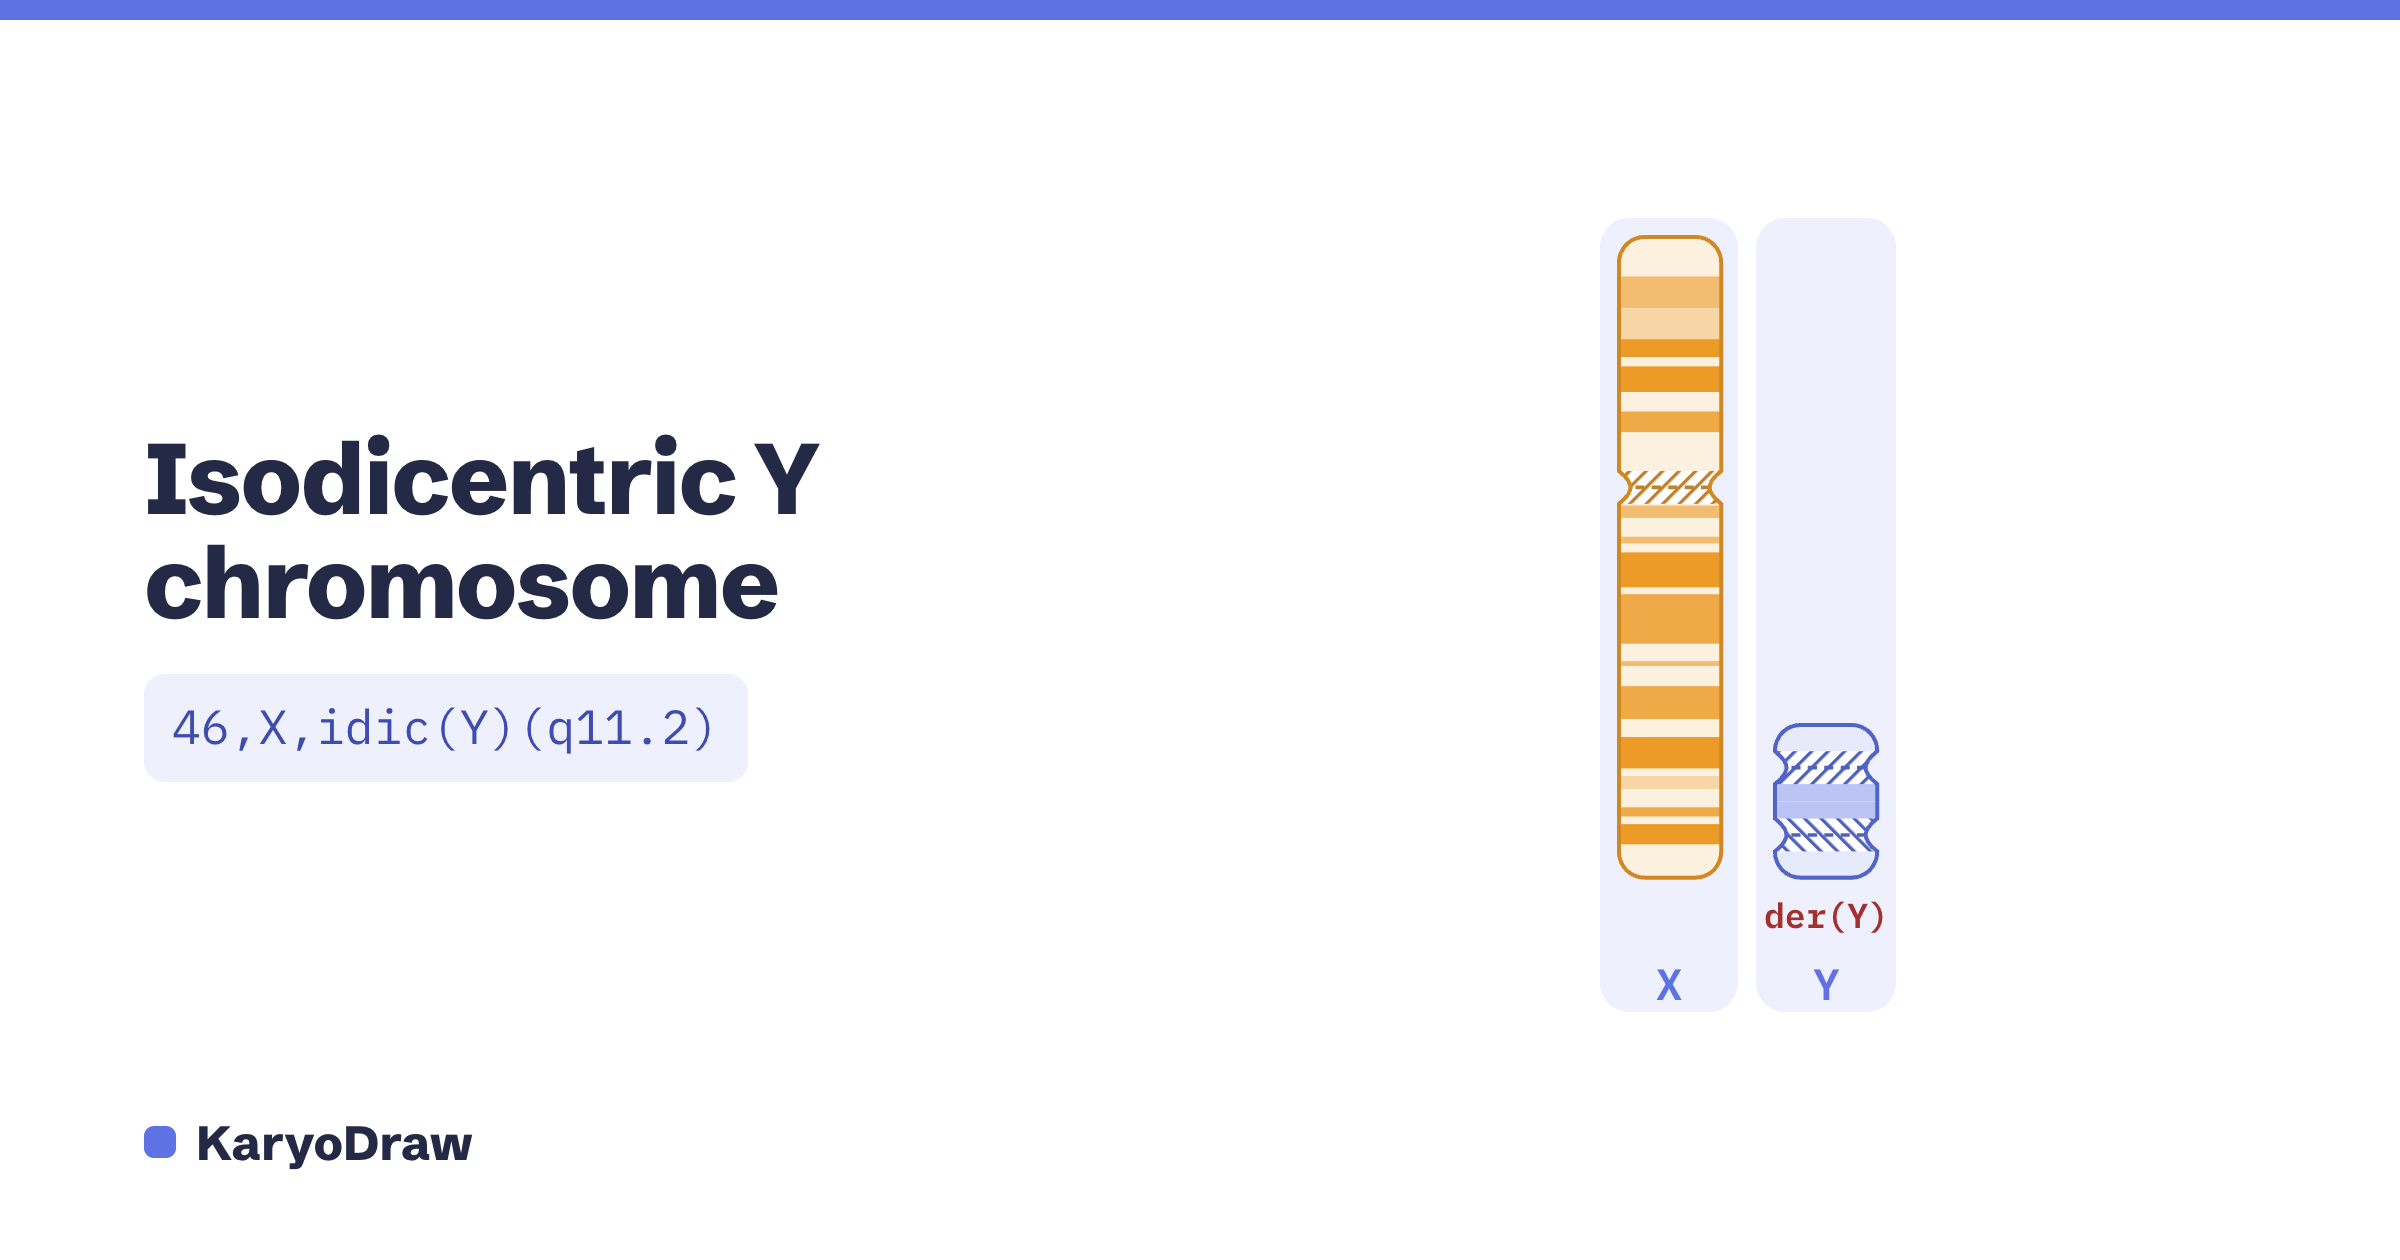
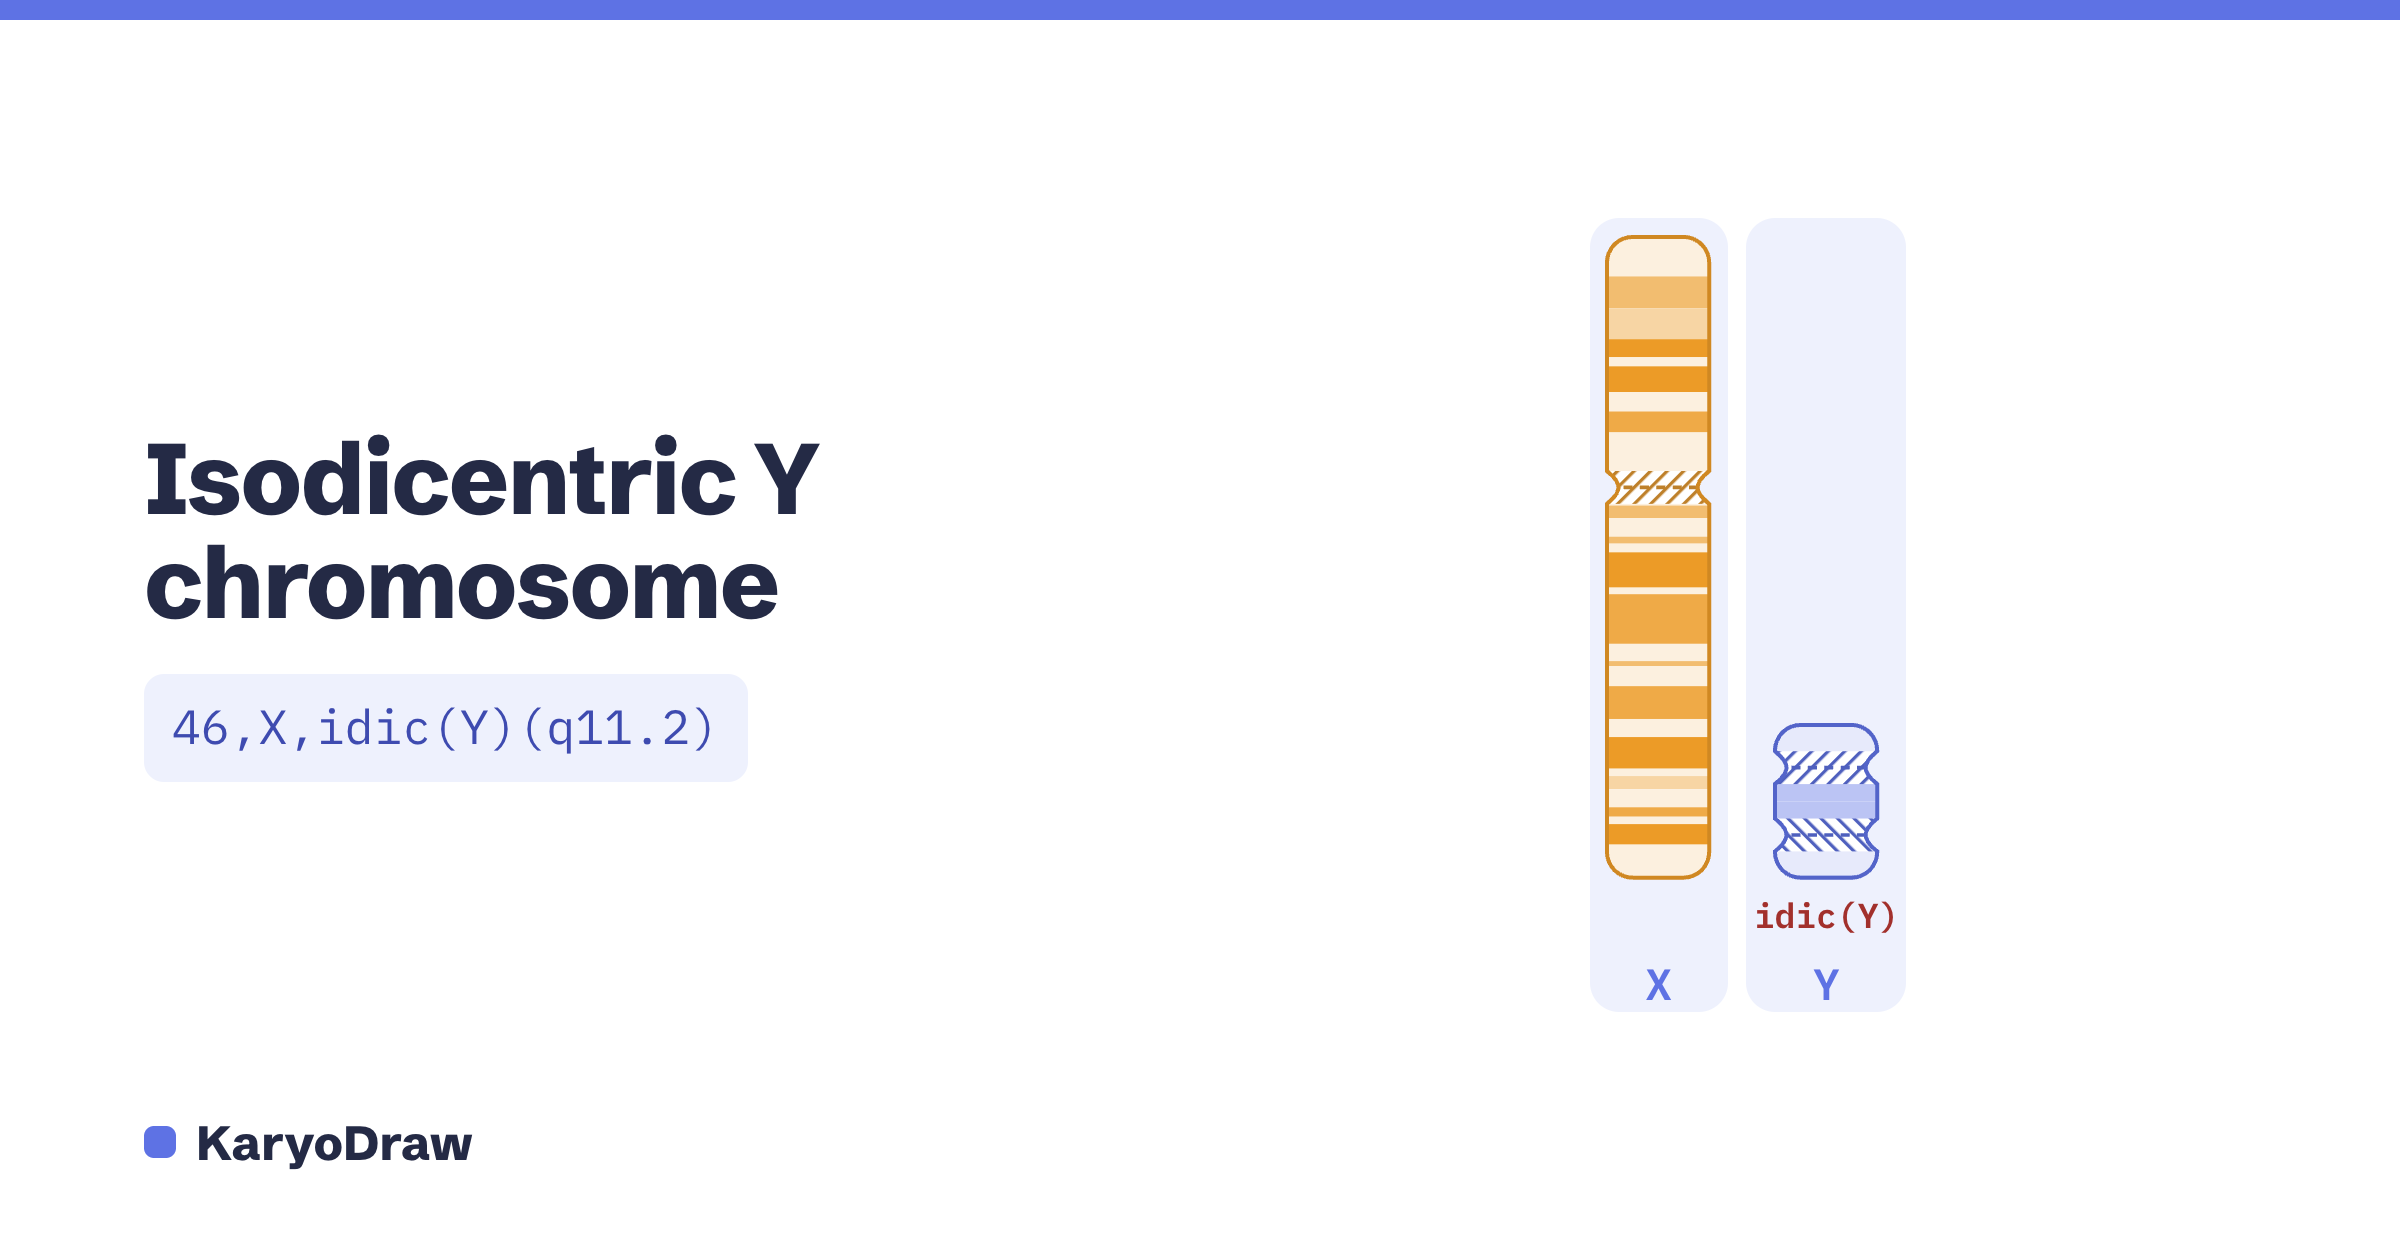
A fused chromosome is captioned with what it is
The caption under a drawn abnormal chromosome came out as der(<lowest
chromosome number>) for every one-body derivative, throwing away both the
symbol and the partner: an isodicentric read der(15), a dic(13;15) read
der(13), a rob(13;14) read der(13).

ISCN's own prose is the model for how to name the object: "the karyotype
contains one normal chromosome 13, one normal chromosome 15, and the
dic(13;15)" (5.5.4 f ii), "two chromosomes 13 plus the idic(13)" (5.5.4 f
viii), "one normal chromosome 21, and the der(13;21)" (5.5.18.3 b i). Two
rules come out of those sentences: the symbol is the one the writer used,
and it names every chromosome the symbol names.

The parser now keeps the operator as written (ab.op), because ab.kind is a
drawing category that merges idic with dic and rob with der, and the caption
has to tell those apart. ISCN 5.5.4 f ix keeps idic and dic apart on
mechanism, so flattening one into the other is not a spelling choice.

Translocations, insertions, and any der() whose join lives in a sub-op are
unchanged and still read der(9) and der(22), because t() makes two
chromosomes rather than one fused body.

Adds parser tests across all four groups. The caption had no test at all
before this, so the whole family could be renamed with the suite green.

Regenerates the landing-page karyograms, cards, and paper figures that bake
the caption into a static image.

Claude-Session: https://claude.ai/code/session_01G5TFp9txgENX2G5ndk3gtf

Changed region(s): [[0.6562, 0.1857, 0.7188, 0.7119], [0.7188, 0.7119, 0.7812, 0.7429], [0.6875, 0.7738, 0.7188, 0.8048]]

diff --git a/test/parser.test.js b/test/parser.test.js
@@ -827,6 +827,65 @@ test('the count fix follows countWrong, like every other count claim', () => {
   assert.equal(ISCN.parse('47,XY,del(5)(zzqewdf2315.2)').countFix, null, 'not while a breakpoint is unreadable');
 });
 
+// ---- the caption under a drawn abnormal chromosome ---------------------------
+// The `.ksub` label, which had no test at all: the whole family could be renamed
+// and the suite stayed green. Dan noticed it on the figure, 2026-08-28 — an
+// idic(15)(q11.2) was captioned der(15), and it is not a der.
+//
+// Two rules, both read off ISCN's own prose rather than invented: the symbol is the
+// one the writer used, and it names every chromosome the symbol names. 5.5.4 f ii
+// "the karyotype contains one normal chromosome 13, one normal chromosome 15, and
+// the dic(13;15)"; 5.5.4 f viii "two chromosomes 13 plus the idic(13)"; 5.5.18.3 b i
+// "one normal chromosome 21, and the der(13;21)"; 5.5.3 "the der(9)t(9;22)".
+const labels = (k) => {
+  const clone = ISCN.parse(k).clones[0];
+  const out = [];
+  Object.keys(clone.slots).forEach((ch) =>
+    (clone.slots[ch] || []).forEach((i) => { if (i.kind !== 'normal') out.push(i.label); }));
+  return out.sort().join(' ');
+};
+
+test('a fused body is captioned with its symbol and every chromosome in it', () => {
+  // idic is not a der, and it is not a dic either: ISCN 5.5.4 f ix keeps the two
+  // apart on mechanism (dic(15;15) for recombination between homologues, idic only
+  // where sister-chromatid fusion is proven), so the caption may not flatten them.
+  assert.equal(labels('46,XX,idic(15)(q11.2)'), 'idic(15)');
+  assert.equal(labels('46,X,idic(Y)(q12)'), 'idic(Y)');
+  assert.equal(labels('47,XX,+idic(13)(q22)'), 'idic(13)');
+  // A dicentric of two chromosomes is ONE body, so naming one of them was naming
+  // half the object.
+  assert.equal(labels('45,XX,dic(13;15)(q22;q24)'), 'dic(13;15)');
+  assert.equal(labels('45,XY,dic(14;21)(p11.2;p11.2)'), 'dic(14;21)');
+  assert.equal(labels('47,XY,+dic(15;15)(q12;q12)'), 'dic(15;15)');
+  // Whole-arm fusions, the same shape. rob and der are both adequate per 5.5.18.3 b,
+  // so the caption echoes the one that was typed rather than rewriting it.
+  assert.equal(labels('45,XX,der(13;21)(q10;q10)'), 'der(13;21)');
+  assert.equal(labels('45,XX,rob(13;14)(q10;q10)'), 'rob(13;14)');
+});
+
+test('a translocation still makes two derivatives, each named for one chromosome', () => {
+  // The case that was already right and the reason the rule is scoped to fused
+  // bodies: t() makes TWO chromosomes, each derived from one of them.
+  assert.equal(labels('46,XY,t(9;22)(q34;q11.2)'), 'der(22) der(9)');
+  assert.equal(labels('46,XX,t(2;7;5)(q21;p13;q31)'), 'der(2) der(5) der(7)');
+  assert.equal(labels('46,XY,ins(5;2)(p14;q22q32)'), 'der(2) der(5)');
+  // A der() with sub-ops names the chromosome it is a derivative OF; the join is in
+  // the sub-op, and its chroms list has one entry, so the fused-body rule must not
+  // catch it.
+  assert.equal(labels('46,XY,der(9)t(9;22)(q34;q11.2)'), 'der(9)');
+  assert.equal(labels('46,XX,der(19)t(X;19)(q11.1;p13.3)'), 'der(19)');
+  assert.equal(labels('46,XY,der(5)ins(5;2)(p14;q22q32)'), 'der(5)');
+});
+
+test('every other symbol keeps the caption it already had', () => {
+  [['46,X,i(X)(q10)', 'i(X)'], ['46,XY,r(13)(p11q34)', 'r(13)'],
+    ['46,XY,del(5)(p15.2)', 'del(5)'], ['46,XY,dup(1)(q22q25)', 'dup(1)'],
+    ['46,XY,inv(9)(p12q13)', 'inv(9)'], ['46,XY,add(19)(p13)', 'add(19)'],
+    ['46,X,fra(X)(q27.3)', 'fra(X)'],
+    ['46,XX,rec(2)dup(2p)inv(2)(p21q31)dmat', 'rec(2)']]
+    .forEach(([k, want]) => assert.equal(labels(k), want, k));
+});
+
 // ---- whole-chromosome gains and losses are listed in chromosome order -------
 // 43,XY,rob(14;21)(q10;q10),-21,-20 lists 21 before 20 and drew silently.
 //

diff --git a/iscn-parser.js b/iscn-parser.js
@@ -588,6 +588,11 @@
     }
 
     var op = opM[1].toLowerCase();
+    // The symbol AS WRITTEN, kept because ab.kind is a drawing category and several
+    // symbols share one: idic and dic are both kind "dic", rob and der are both kind
+    // "der". The figure's caption has to name the object the way the writer named it
+    // (see derLabel), and kind cannot tell those apart.
+    ab.op = op;
     var chromGroup = opM[2] || "";
     var bpGroup = opM[3] || "";
     var rest = tok.slice(opM[0].length); // trailing sub-ops (der chains)
@@ -986,6 +991,29 @@
     function mkDer(c, ab) {
       return { chrom: c, kind: ab.kind, label: derLabel(c, ab), aberration: ab, primary: c };
     }
+    // The caption under a drawn abnormal chromosome. It names the object, and ISCN's
+    // own prose is the model for how: "the karyotype contains one normal chromosome
+    // 13, one normal chromosome 15, and the dic(13;15)" (5.5.4 f ii), "there are two
+    // chromosomes 13 plus the idic(13)" (5.5.4 f viii), "the karyotype contains one
+    // normal chromosome 13, one normal chromosome 21, and the der(13;21)" (5.5.18.3
+    // b i). Two rules come out of those sentences:
+    //
+    //   1. the symbol is the one the writer used, and
+    //   2. it names every chromosome the symbol names.
+    //
+    // Every one-body derivative used to come out as der(<lowest chromosome>), which
+    // broke both. idic(15)(q11.2) was captioned der(15) — Dan, 2026-08-28 — and that
+    // is not a der: it throws away the two-centromere mirror the figure is drawn to
+    // show, and idic versus dic is a mechanism distinction ISCN is deliberate about
+    // (5.5.4 f ix: dic(15;15) for recombination between homologues, idic only where
+    // sister-chromatid fusion is proven). dic(13;15) and der(13;21) lost their
+    // partner chromosome the same way, so the caption on a fused body named one of
+    // the two chromosomes in it.
+    //
+    // A translocation is the case that is already right and must stay right: t()
+    // makes TWO chromosomes, each derived from one, and ISCN calls them der(9) and
+    // der(22) (5.5.3, "the der(9)t(9;22)"). Same for the two products of an ins().
+    // So the multi-chromosome spelling is for the kinds that fuse into ONE body.
     function derLabel(c, ab) {
       if (ab.kind === "iso") return "i(" + c + ")";
       if (ab.kind === "ring") return "r(" + c + ")";
@@ -993,11 +1021,18 @@
       if (ab.kind === "dup") return "dup(" + c + ")";
       if (ab.kind === "inv") return "inv(" + c + ")";
       if (ab.kind === "add") return "add(" + c + ")";
-      if (ab.kind === "der") return "der(" + c + ")";
       if (ab.kind === "hsr") return "hsr(" + c + ")";
       if (ab.kind === "rec") return "rec(" + c + ")";
       if (ab.kind === "fra") return "fra(" + c + ")";
-      if (ab.kind === "t" || ab.kind === "dic" || ab.kind === "ins") return "der(" + c + ")";
+      // dic, idic, rob, and a der() written across two chromosomes: those fuse into
+      // ONE body, so the caption carries the symbol as written and every chromosome
+      // in it. A der() carrying sub-ops (der(9)t(9;22), der(19)t(X;19)) is not this
+      // case: its chroms list is the one chromosome it is a derivative OF, and the
+      // join lives in the sub-op.
+      var oneBody = ab.kind === "dic" ||
+        (ab.kind === "der" && (ab.chroms || []).length >= 2 && !(ab.subOps || []).length);
+      if (oneBody) return (ab.op || (ab.kind === "dic" ? "dic" : "der")) + "(" + ab.chroms.join(";") + ")";
+      if (ab.kind === "der" || ab.kind === "t" || ab.kind === "ins") return "der(" + c + ")";
       return c;
     }
     function firstNormal(arr) { return arr.map(function (x) { return x.kind; }).indexOf("normal"); }

diff --git a/CHANGELOG.md b/CHANGELOG.md
@@ -3,6 +3,30 @@
 Notable changes to KaryoDraw. The site is continuously deployed (every change to
 `main` goes live), so entries are grouped by date rather than by version.
 
+## 2026-08-28 (a fused chromosome is captioned with what it is)
+
+- **`idic(15)` is captioned `idic(15)`, not `der(15)`.** The label under a drawn
+  abnormal chromosome came out as `der(<lowest chromosome number>)` for every
+  one-body derivative, which threw away both the symbol and the partner: an
+  isodicentric read `der(15)`, a `dic(13;15)` read `der(13)`, a `rob(13;14)` read
+  `der(13)`. ISCN's own prose is the model for how to name the object — "the karyotype
+  contains one normal chromosome 13, one normal chromosome 15, and the dic(13;15)"
+  (5.5.4 f ii), "two chromosomes 13 plus the idic(13)" (5.5.4 f viii), "one normal
+  chromosome 21, and the der(13;21)" (5.5.18.3 b i) — and two rules come out of those
+  sentences: the symbol is the one the writer used, and it names every chromosome the
+  symbol names. `idic` in particular may not be flattened to `dic` or `der`, because
+  ISCN 5.5.4 f ix keeps the two apart on mechanism: `dic(15;15)` for recombination
+  between homologues, `idic` only where fusion between sister chromatids is proven.
+
+  A translocation is the case that was already right and stays right. `t()` makes TWO
+  chromosomes, each derived from one, so they remain `der(9)` and `der(22)` (5.5.3,
+  "the der(9)t(9;22)"), as do the two products of an `ins()` and any `der()` whose join
+  lives in a sub-op. The multi-chromosome spelling is only for the symbols that fuse
+  into one body.
+
+  The caption had no test, so the whole family could be renamed with the suite green.
+  It has one now, across all four groups.
+
 ## 2026-08-28 (the centromere is a shape, and a dicentric says so)
 
 - **Every centromere now pinches the chromosome into a waist.** It was a hatched block
